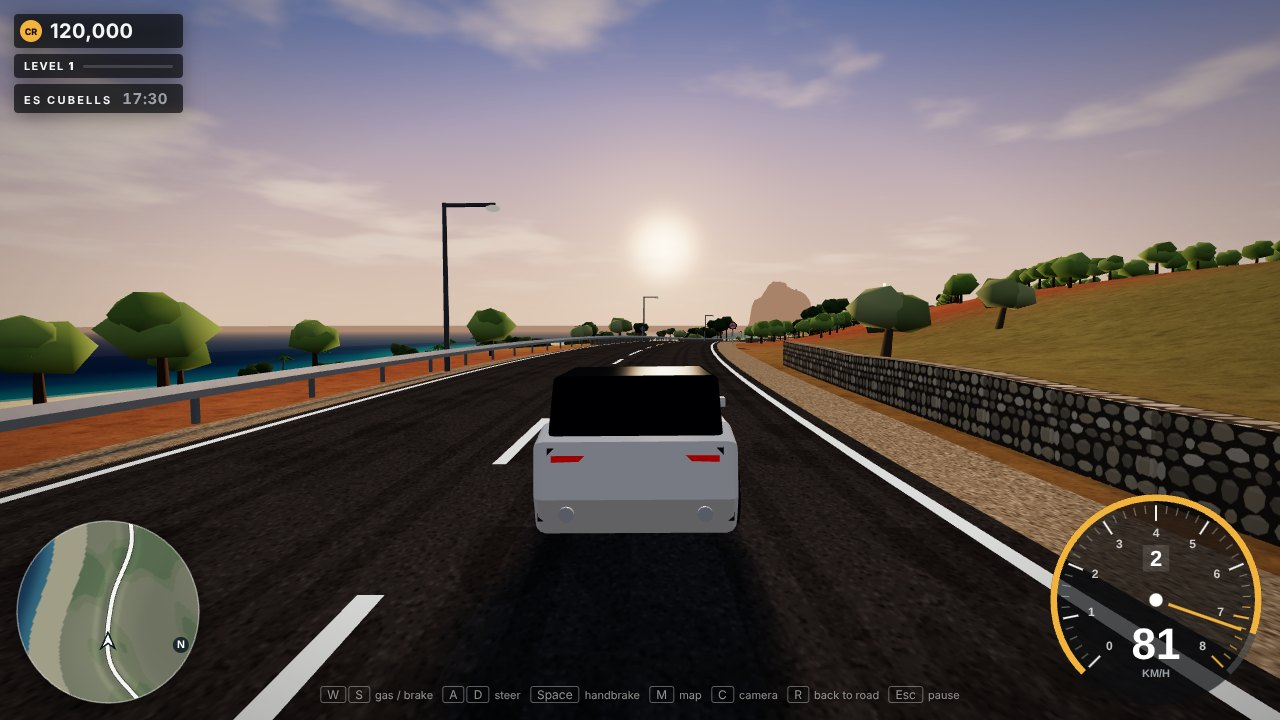
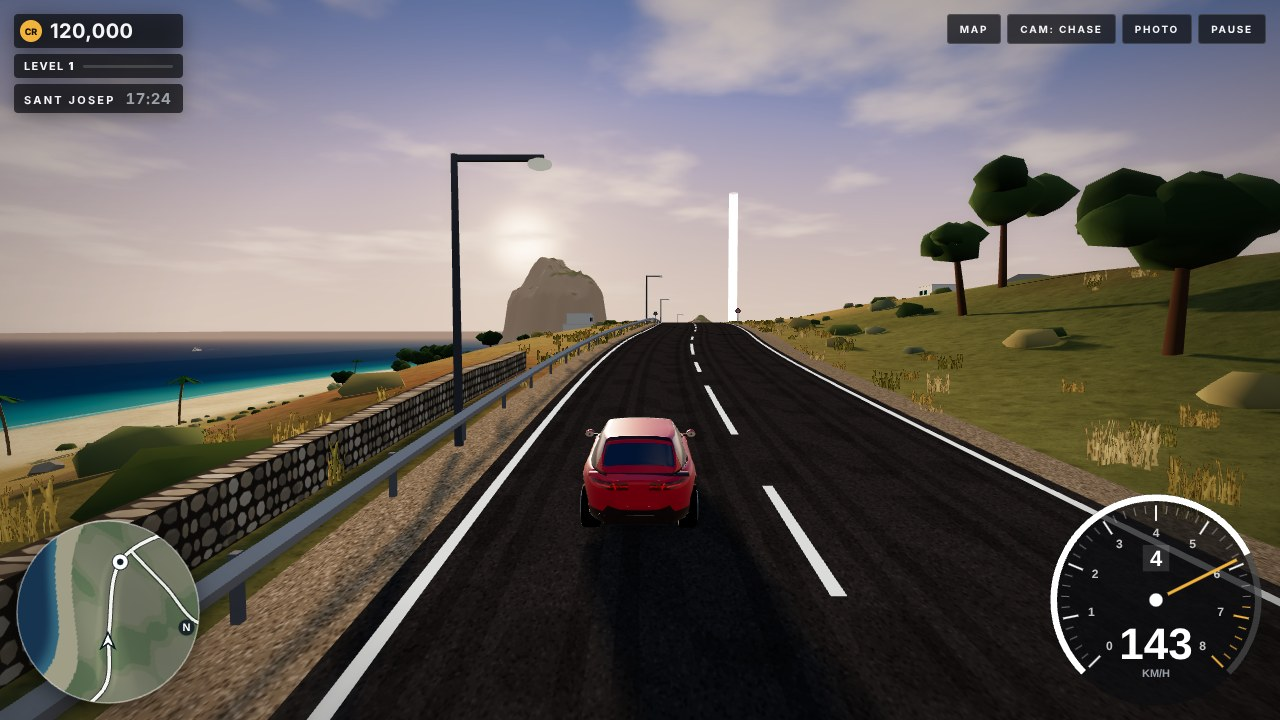
Rear windows that fit the body; reflections right from START; new README screenshot and social preview (#20)
* Cars: rear windows framed in body colour; reflections match the sky as soon as the garage opens

- Rear window: glass in the middle with a body-coloured frame (a strip under the roof's end, the pillars, a strip
  along the bottom). All dark, the back of the Golf and Range Rover looked like a black slab.
- The car reflection map is redrawn at once when the sky changes a lot. The first one is drawn during loading, before
  the hour's sky is set, and the 4 s limit on redraws kept it for a moment after START: lighter paint and grey
  windows, then a change of colour (seen in a phone recording).
- Test: when the garage opens, the reflections were drawn from the sky that's showing.

Claude-Session: https://claude.ai/code/session_01FWTetbUx9FFUBCpW5X15ew

* Cars: the glasshouse stays inside the body's shoulder towards the tail and nose

Kept at its full width where the body narrows, it overhung the sides like a wide dark hat on the Golf and the Range
Rover. Now it is never wider than the body's shoulder under it.

Claude-Session: https://claude.ai/code/session_01FWTetbUx9FFUBCpW5X15ew

* README screenshot and social preview with today's car models

docs/screenshot.jpg: a Golf GTI on the coast road at golden hour, with the HUD (1280x720). docs/social-preview.jpg:
the same road without the HUD under the WHITE ISLE DRIVE title, tagline and play pill, in the game's Barlow fonts
(1280x640). Alt texts in the README and og:image:alt updated.
[…]

diff --git a/index.html b/index.html
@@ -16,7 +16,7 @@
 <meta property="og:image" content="https://joyeechuah.github.io/white-isle-drive/docs/social-preview.jpg">
 <meta property="og:image:width" content="1280">
 <meta property="og:image:height" content="640">
-<meta property="og:image:alt" content="A red open-top car on a coastal highway at dusk, under the title White Isle Drive">
+<meta property="og:image:alt" content="A red hatchback on a coastal highway in the late-afternoon sun, under the title White Isle Drive">
 <meta name="twitter:card" content="summary_large_image">
 <title>White Isle Drive</title>
 <link rel="preconnect" href="https://fonts.googleapis.com">
@@ -2357,7 +2357,11 @@ function carEnvTex(){if(!CAR_ENV.tex)updateCarEnv(true);return CAR_ENV.tex}
 function updateCarEnv(force){
   const k=[skyU.top.value,skyU.hor.value,skyU.sunCol.value].map(c=>c.r+c.g+c.b).concat([skyU.sunDir.value.x,skyU.sunDir.value.y]);
   const old=CAR_ENV.key,now=performance.now();
-  if(!force&&old&&((now-CAR_ENV.t<4000&&!CAR_ENV.dirty)||k.every((v,i)=>Math.abs(v-old[i])<.06))){CAR_ENV.dirty=false;return}CAR_ENV.dirty=false;
+  // redrawn at most every 4 s as the sky changes slowly with the hour, but at once when it changes a lot: the first map
+  // is drawn while the game loads, before the hour's sky is set, and for up to 4 s after START the cars reflected
+  // that grey sky (lighter paint, grey windows) and then changed colour
+  const big=old&&k.some((v,i)=>Math.abs(v-old[i])>.25);
+  if(!force&&old&&!big&&((now-CAR_ENV.t<4000&&!CAR_ENV.dirty)||k.every((v,i)=>Math.abs(v-old[i])<.06))){CAR_ENV.dirty=false;return}CAR_ENV.dirty=false;
   if(!CAR_ENV.pm){CAR_ENV.pm=new THREE.PMREMGenerator(renderer);CAR_ENV.scene=carEnvScene()}
   CAR_ENV.ground.material.color.copy(hemi.groundColor).lerp(scene.fog.color,.35).multiplyScalar(.55);
   const rt=CAR_ENV.pm.fromScene(CAR_ENV.scene,.02,.1,200),old2=CAR_ENV.rt;CAR_ENV.rt=rt;CAR_ENV.tex=rt.texture;
@@ -2431,7 +2435,9 @@ function carShape(pr,shape){
   const cz0=cp.z0,cz1=cp.z1,cw=pr.cw/2;
   // the glasshouse starts just inside the body's shoulder and leans in towards the roof
   const csec=z=>{const T=cp.top(z),Bo=cp.bot(z),H=Math.max(0,T-Bo),f=Math.min(1,H/.12);
-    const w=Math.max(cw,halfW(z)-S.tuck*1.5-.02),wt=w-Math.min(.3,H*.55)*f;
+    // but never wider than the body's shoulder under it: towards the tail (and nose) the body narrows, and a glasshouse
+    // kept at its full width overhung the sides like a wide black hat on the Golf and the Range Rover
+    const hw=halfW(z),w=Math.min(Math.max(cw,hw-S.tuck*1.5-.02),hw-S.tuck*1.7*Math.min(1,hw/.45)-.015),wt=w-Math.min(.3,H*.55)*f;
     return[w+.01,Bo-.03, w-(w-wt)*.25,Bo+H*.4, wt+.06*f,T-.04*f, wt-.04*f,T, wt*.4,T+.02*f, 0,T+.024*f]};
   const hy=Math.max(.56,pr.ws[1]-.34);
   return{S,bp,cp,z0,z1,cz0,cz1,sec,csec,arch,halfW,Ra,hy,pr,shape};
@@ -2554,7 +2560,10 @@ function cabinPaint(K){
     if(sd){if(Math.abs(z-zB)<.045){o.c=.015;o.r=.15;o.m=0;return}
       if(y>T-.035||z<K.cz0+.25){o.c=1;o.r=.36;o.m=.35;return}glass();return}
     if(z<=zRF-.03&&z>=zRR+.03&&ny>.5){o.c=1;o.r=.36;o.m=.35;return}       // roof
-    if(mid&&(z>zRF+.03||z<zRR-.03)){glass();return}                       // windscreen, rear window
+    if(mid&&z>zRF+.03){glass();return}                                     // windscreen
+    // rear window: glass in the middle, framed in body colour (a strip under the roof's end, the pillars either side
+    // and a strip along the bottom), as on a real hatch or saloon; all dark, it looked like a black slab on the back
+    if(z<zRR-.03){if(Math.abs(nx)<.34&&z<zRR-.07&&T-Bo>.1){glass();return}o.c=1;o.r=.36;o.m=.35;return}
     o.c=.012;o.r=.6;o.m=0;                                    // pillars and frames, satin black (gloss caught the sky as white lines)
   };
 }

diff --git a/tests/cars.spec.js b/tests/cars.spec.js
@@ -82,6 +82,18 @@ test.describe("car models", () => {
     for (const shape in r) expect(r[shape], shape).toEqual({ ws: true, bk: true, roof: true });
   });
 
+  test("the cars reflect the hour's sky from the moment the garage opens (they reflected the loading screen's grey sky for up to 4 s)", async ({ game }) => {
+    await game.open();
+    const r = await game.eval(() => {
+      const T = __T,
+        u = T.skyU,
+        k = [u.top.value, u.hor.value, u.sunCol.value].map((c) => c.r + c.g + c.b).concat([u.sunDir.value.x, u.sunDir.value.y]);
+      return { k, env: T.CAR_ENV.key, age: performance.now() - T.CAR_ENV.t };
+    });
+    const off = Math.max(...r.k.map((v, i) => Math.abs(v - r.env[i])));
+    expect(off, "largest difference between the sky and the sky the reflections were drawn from").toBeLessThan(0.06);
+  });
+
   test("traffic wheels face outwards on both sides (the mirrored pair used to be inside out)", async ({ game }) => {
     await game.open();
     const r = await game.eval(() => {

diff --git a/README.md b/README.md
@@ -4,7 +4,7 @@ A free-roam driving game set on a Mediterranean island modelled loosely on Ibiza
 
 ### [▶ Play now](https://joyeechuah.github.io/white-isle-drive/)
 
-![A white hatchback driving along the coastal highway at sunset, with the credits, minimap and speedometer on screen](docs/screenshot.jpg)
+![A red hatchback driving along the coastal highway in the late-afternoon sun, with the sea and a rocky islet on the left, and the credits, minimap and speedometer on screen](docs/screenshot.jpg)
 
 ## Play
 
